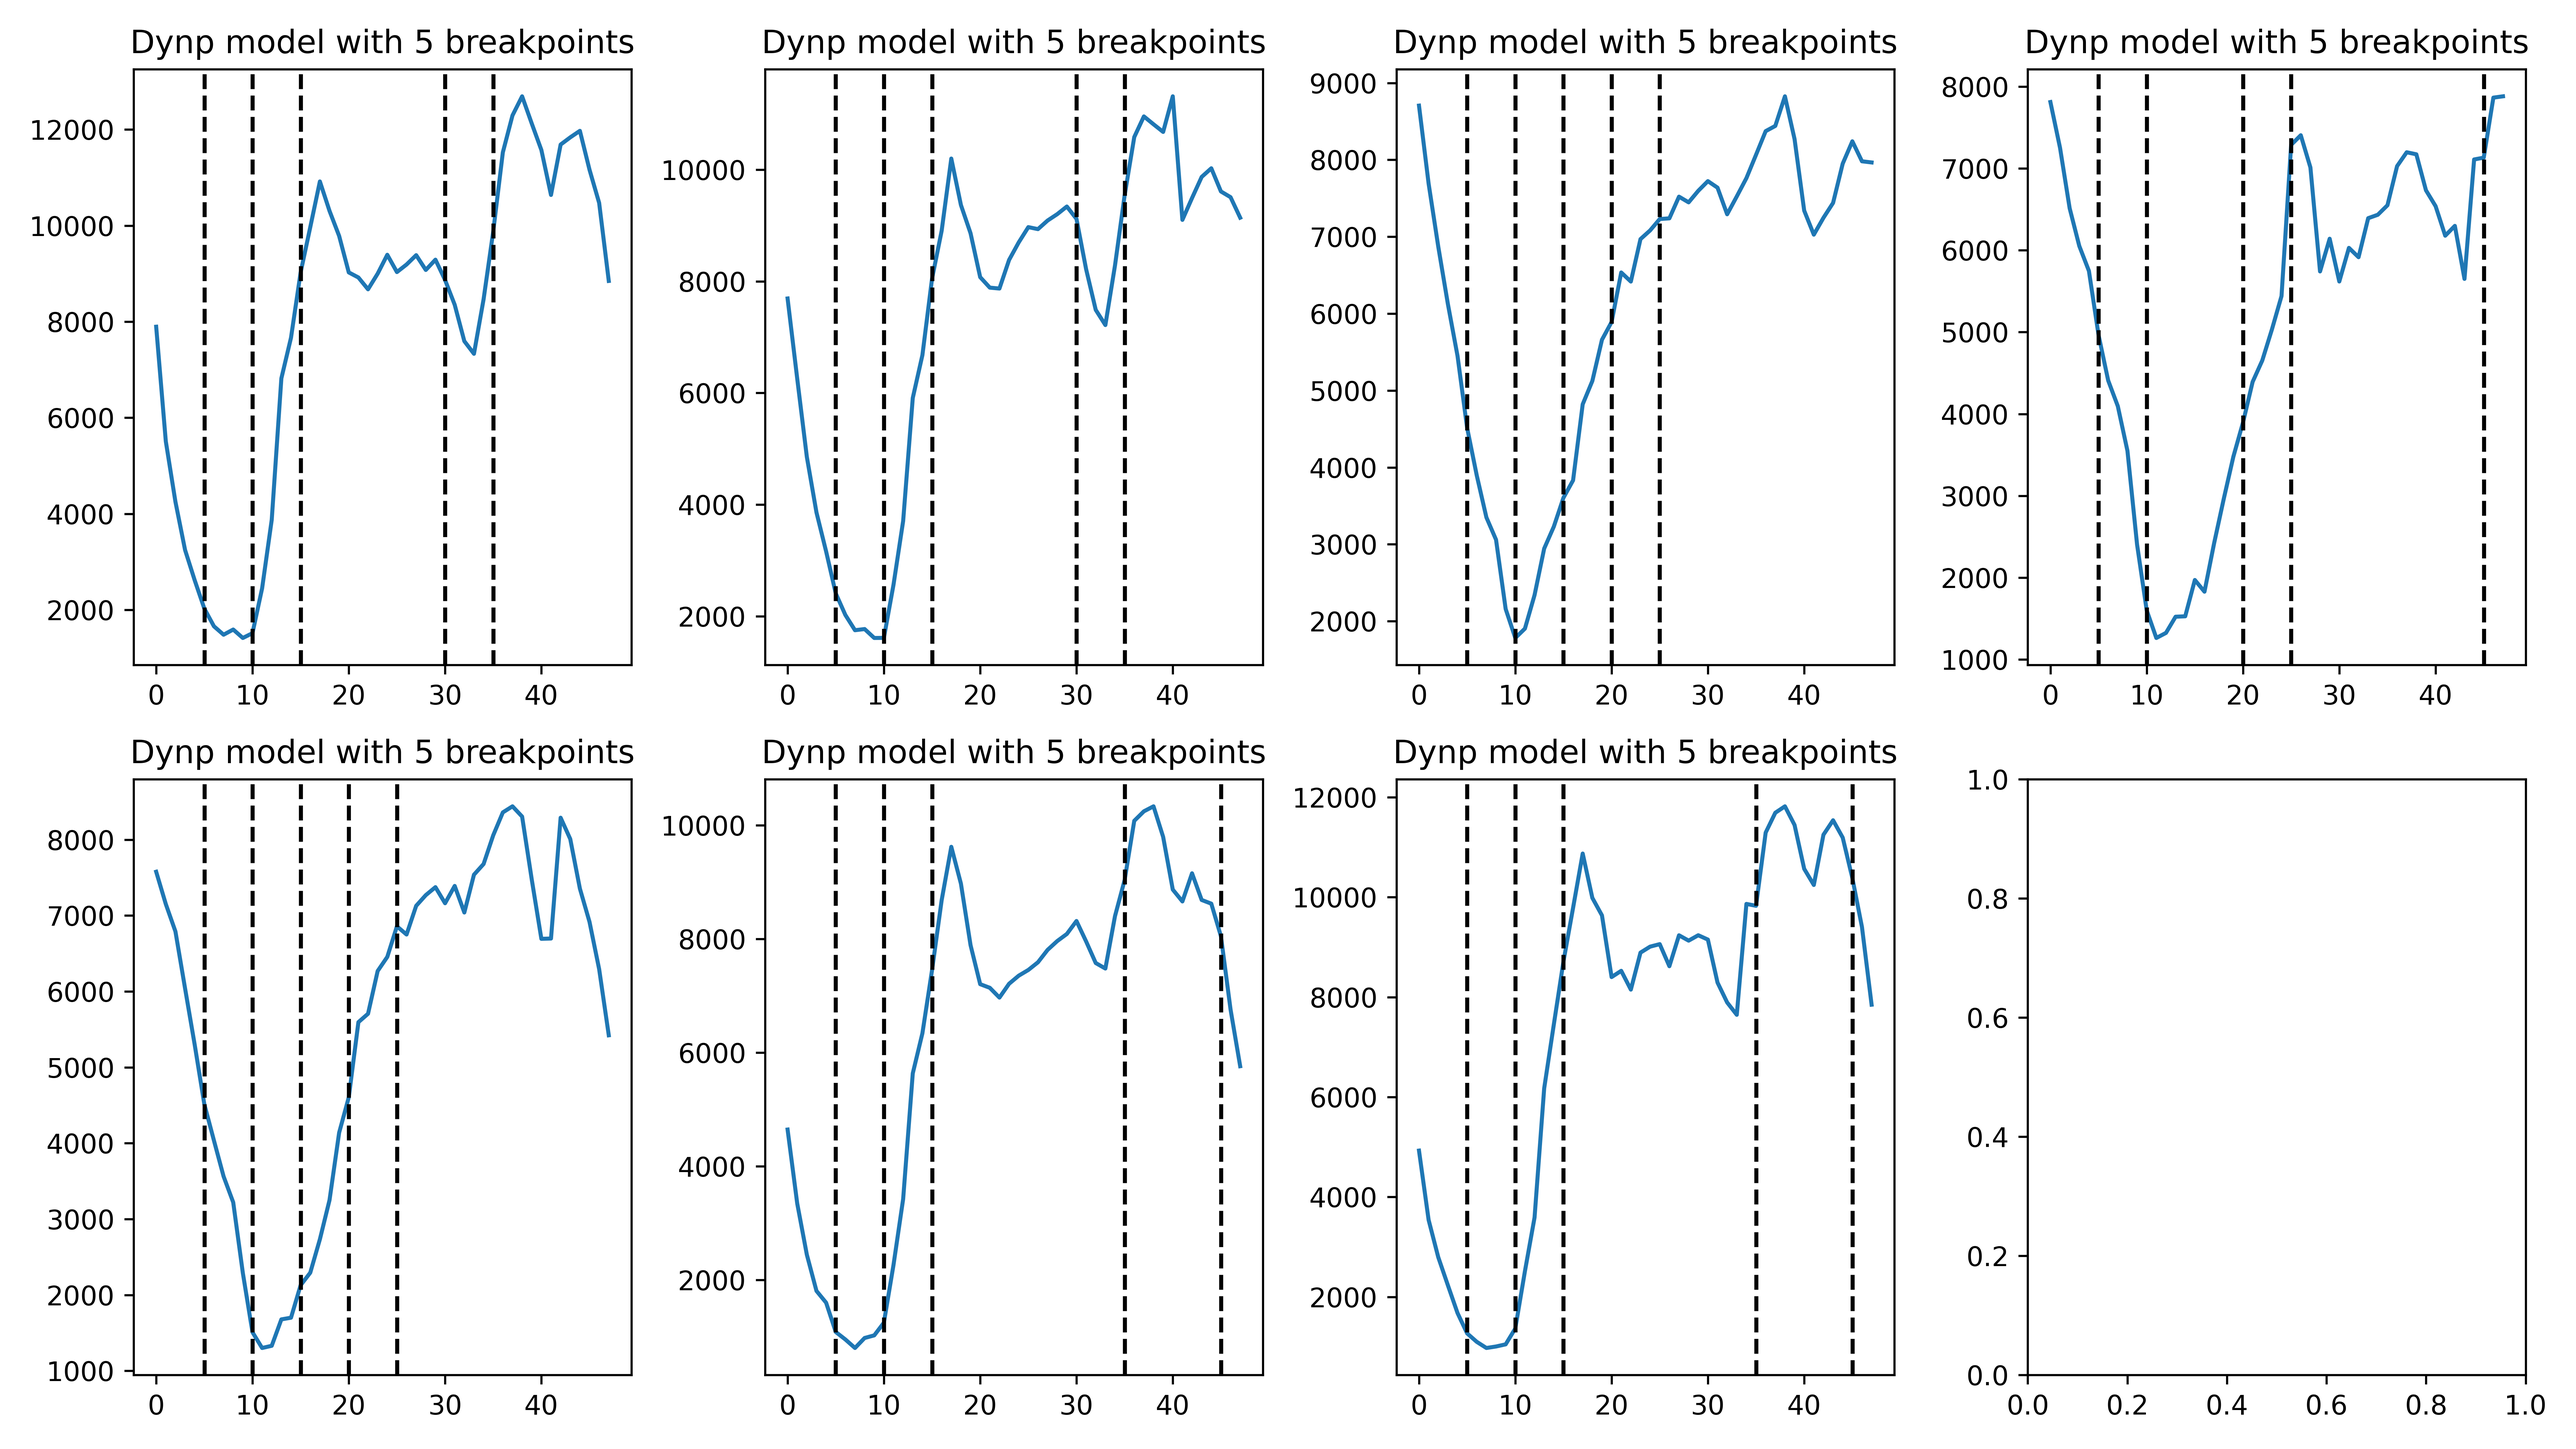
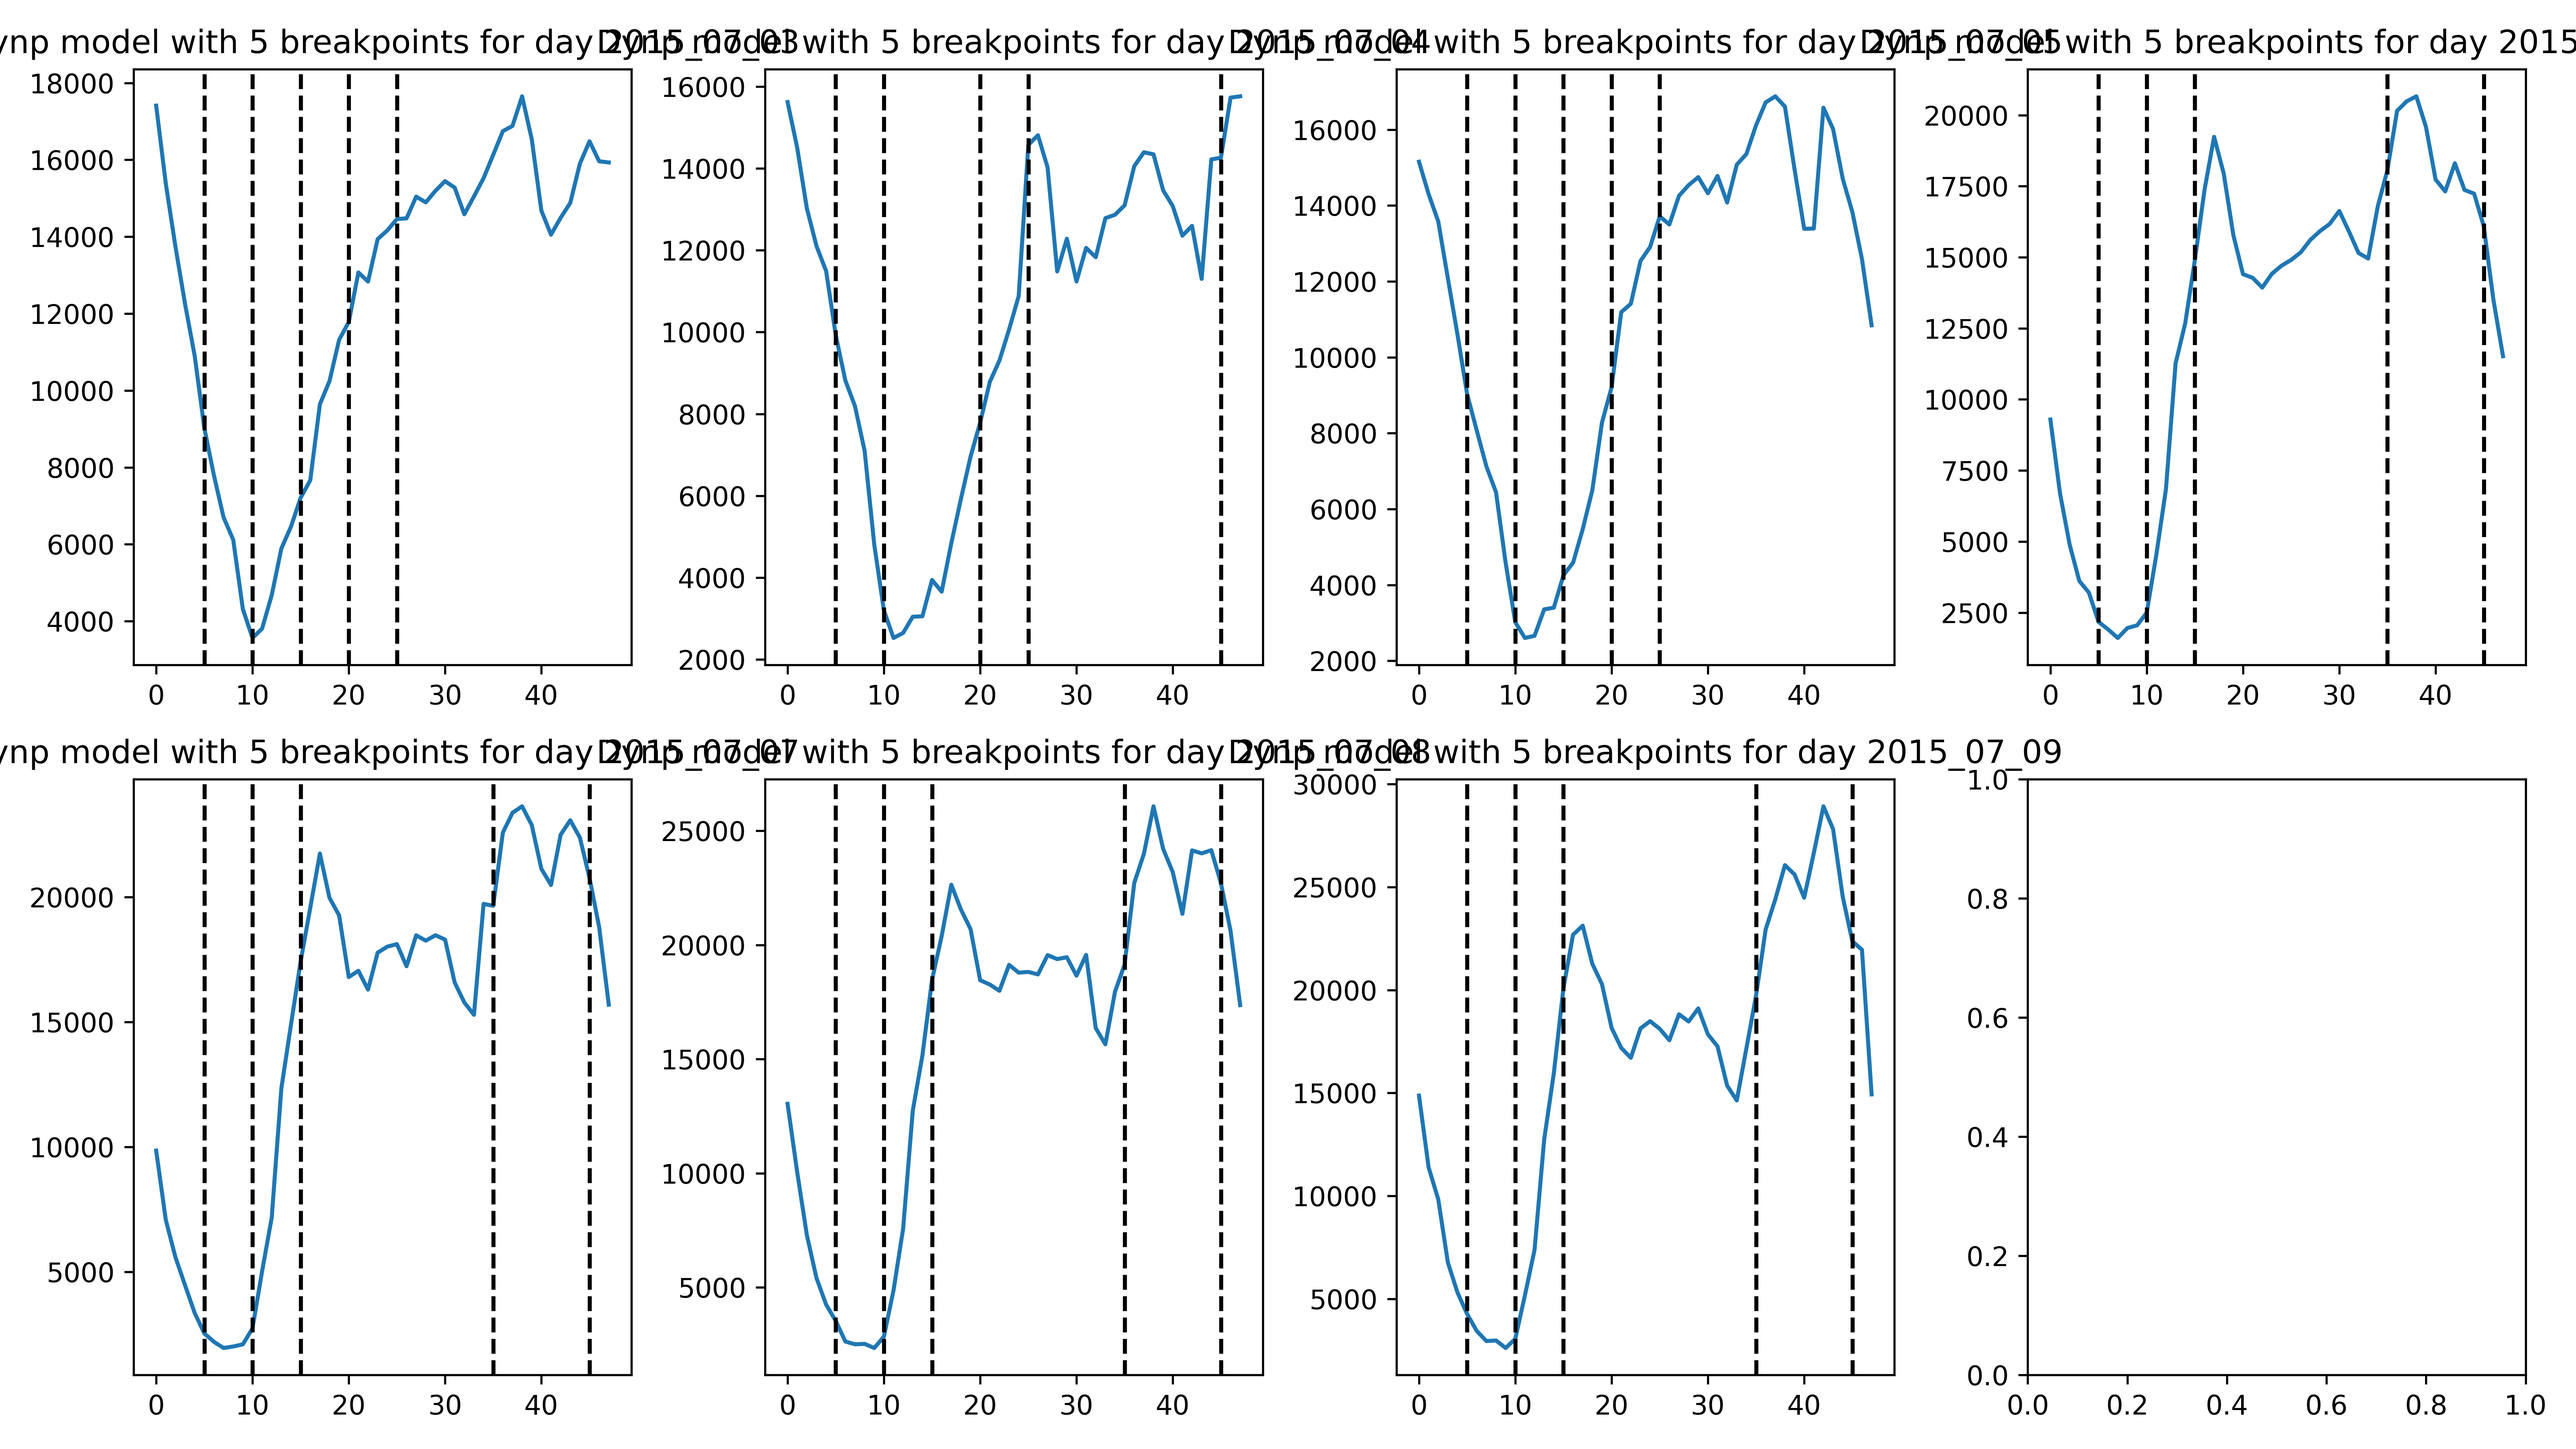
Run time series discretization

diff --git a/code/static_data_generation/time_series_discretization.py b/code/static_data_generation/time_series_discretization.py
@@ -1,4 +1,6 @@
+import csv
 from matplotlib import pyplot as plt
+import numpy as np
 import pandas as pd
 import ruptures as rpt
 
@@ -14,16 +16,18 @@ class TimeSeriesDiscretization:
         fig, ax = plt.subplots(2, 4, figsize=(1280/96, 720/96), dpi=96)
         ax = ax.ravel()
         i = 0
+        weekdays = ["Friday", "Saturday", "Sunday", "Monday", "Tuesday", "Wednesday", "Thursday"]
+        weekdays_bkps = {day: [] for day in weekdays}
         for df in dfs:
-            LOGGER.debug("Fit the discretization model")
+            LOGGER.debug("Fit the discretization model for ")
             algo = rpt.Dynp(model="l2", min_size=2)
             algo.fit(df['number_of_orders'].values)
-
             n_bkps = 5
             LOGGER.debug(f"Predict model with {n_bkps} change points")
             result = algo.predict(n_bkps=n_bkps)
             ax[i].plot(df['half_hour_interval'], df['number_of_orders'])
             for bkp in result[:-1]:  # Letztes Element in 'result' ist die Länge der Datenreihe, nicht ein Breakpoint
+                weekdays_bkps[weekdays[i]].append(bkp)
                 ax[i].axvline(x=df['half_hour_interval'].iloc[bkp], color='k', linestyle='--')
             ax[i].set_title(f"Dynp model with {n_bkps} breakpoints")
             i += 1
@@ -31,12 +35,24 @@ class TimeSeriesDiscretization:
         plt.tight_layout()
         plt.savefig('code/data_visualization/discretized_time_series.png', dpi=600)
         plt.show()
-    
+
+        csv_file_path = "code/data_output/time_series_break_points.csv"
+        with open(csv_file_path, mode="w") as file:
+            writer = csv.writer(file)
+            writer.writerow(weekdays)
+            matrix = [[] for w in weekdays_bkps]
+            for i, w in enumerate(weekdays_bkps):
+                matrix[i] = list(map(lambda x: x*30, weekdays_bkps[w]))
+            writer.writerows(np.array(matrix).transpose())
+
     def prepare_data() -> list[pd.DataFrame]:
         dfs = []
-        for i in range(1,8):
+        for i in range(3,10):
             df = pd.read_csv(f"code/data/orders_2015-07-0{i}.csv")
             df['pickup_time'] = pd.to_datetime(df['pickup_time'])
+            df2 = pd.read_csv(f"code/data/orders_2015-07-{i+7}.csv")
+            df2['pickup_time'] = pd.to_datetime(df['pickup_time'])
+            df = pd.concat([df, df2], ignore_index=True)
             df['minutes_since_midnight'] = df['pickup_time'].apply(lambda x: x.hour * 60 + x.minute)
 
             df['half_hour_interval'] = df['minutes_since_midnight'] // 30 #* 30
